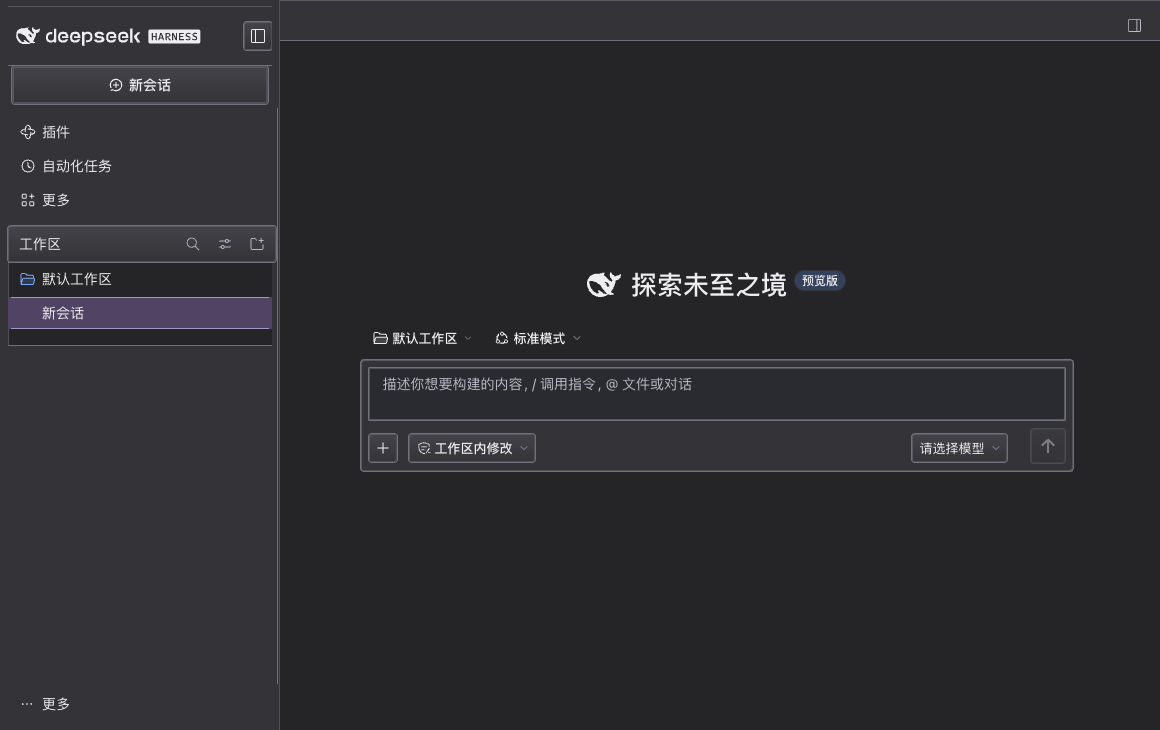
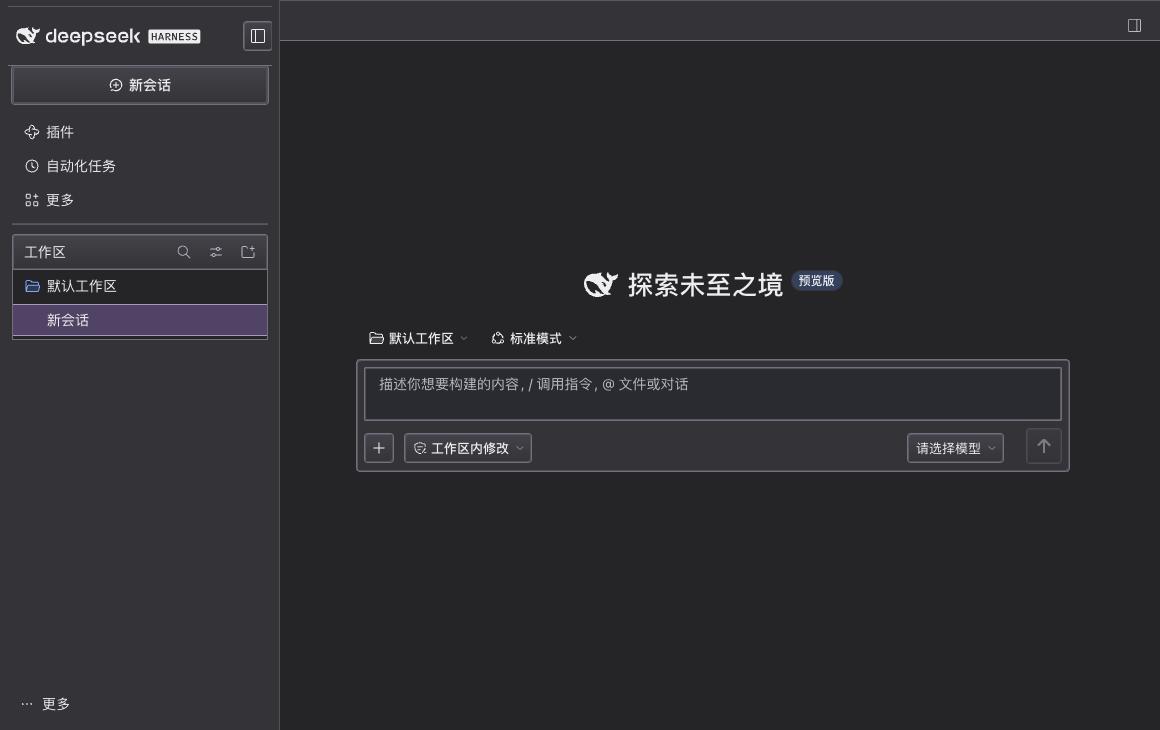
Update README screenshots for new chat, conversation and settings views

diff --git a/README.md b/README.md
@@ -6,9 +6,31 @@ easy to read. Includes light and dark palettes that follow DSH's appearance.
 
 以 Mac OS 8.1 Platinum 为灵感的 DSH 桌面主题。铂灰窗口、短横纹标题栏、浮雕标签和凹槽输入框覆盖会话、设置和右侧工作区，浅色与深色配色跟随 DSH 外观。
 
-![Platinum light](assets/platinum-light.png)
+## 界面预览 / Screenshots
 
-[Dark preview / 深色预览](assets/platinum-dark.png)
+### 新建对话（展开侧边栏 · 浅色 / New Chat — Sidebar Open, Light）
+
+![Platinum new chat light](assets/platinum-light.png)
+
+### 新建对话（收起侧边栏 / New Chat — Sidebar Collapsed）
+
+![Platinum new chat collapsed sidebar](assets/platinum-new-collapsed.png)
+
+### 历史对话（展开侧边栏 / Conversation — Sidebar Open）
+
+![Platinum conversation open sidebar](assets/platinum-conversation.png)
+
+### 历史对话（收起侧边栏 / Conversation — Sidebar Collapsed）
+
+![Platinum conversation collapsed sidebar](assets/platinum-conversation-collapsed.png)
+
+### 设置页（Settings）
+
+![Platinum settings](assets/platinum-settings.png)
+
+### 深色模式（Dark Appearance）
+
+![Platinum dark](assets/platinum-dark.png)
 
 ## 安装 / Install
 
